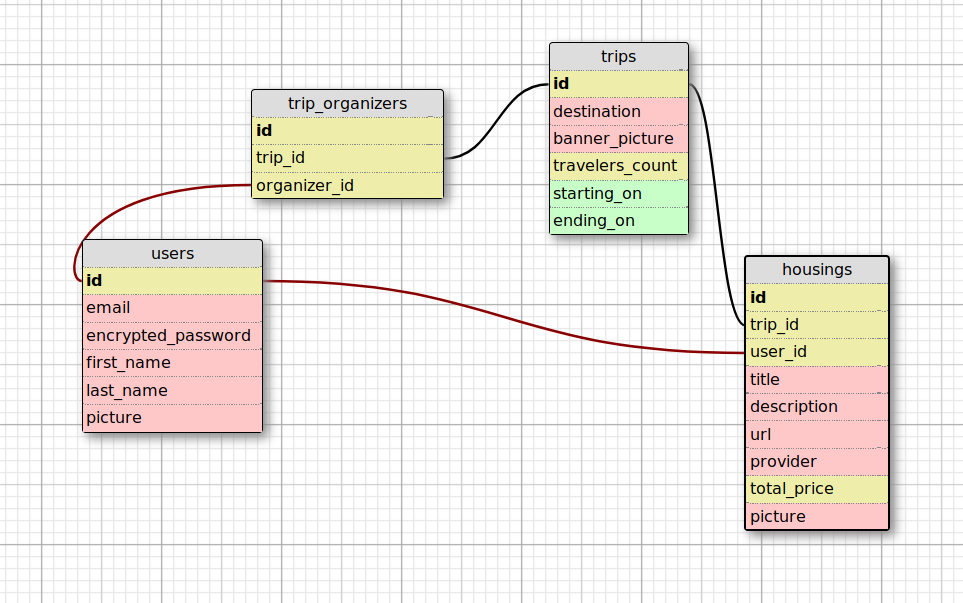
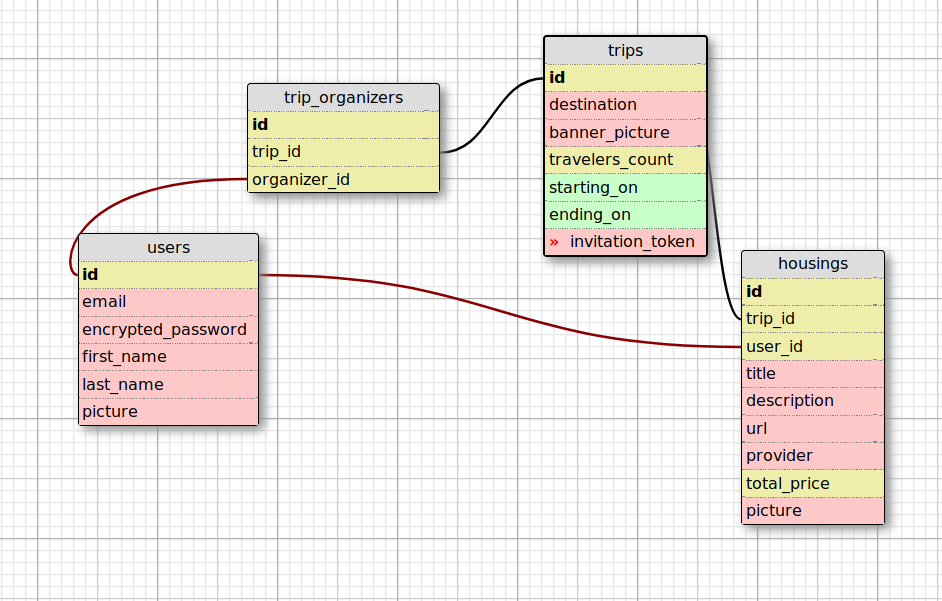
Add authorization on trip/housing pages

diff --git a/apps/web/assets/javascripts/copy-invitation-link.js b/apps/web/assets/javascripts/copy-invitation-link.js
@@ -1,0 +1,44 @@
+(function() {
+
+  'use strict';
+
+  // click event
+  var element = document.querySelector('.copy-invitation-link')
+  element.addEventListener('click', copyInvitationLink, true);
+
+  // event handler
+  function copyInvitationLink(event) {
+    event.preventDefault();
+
+    // find target element
+    var
+      target     = event.target,
+      copyTarget = target.dataset.copytarget,
+      input      = (copyTarget ? document.querySelector(copyTarget) : null);
+
+    // is element selectable?
+    if (input && input.select) {
+      // select text
+      input.select();
+
+      try {
+        // copy text
+        document.execCommand('copy');
+        input.blur();
+
+        // notice
+        var notice = document.querySelector('.trip-invitation-notice');
+
+        notice.innerText     = 'URL copied!';
+        notice.style.display = 'block';
+
+        setTimeout(function () {
+          notice.style.display = 'none';
+        }, 2000)
+      }
+      catch (err) {
+        alert('Please press Ctrl/Cmd+C to copy');
+      }
+    }
+  }
+})();

diff --git a/apps/web/assets/stylesheets/pages/_trip.scss b/apps/web/assets/stylesheets/pages/_trip.scss
@@ -84,6 +84,25 @@
   }
 }
 
+.trip-invitation {
+  text-align: center;
+  padding-top: 1em;
+
+  #trip-invitation-link {
+    text-align: center;
+
+    @media (max-width: $screen-xs-max) {
+      width: 100%;
+      padding: 0.25em;
+    }
+
+    @media (min-width: $screen-sm-min) {
+      border: none;
+      min-width: 450px;
+    }
+  }
+}
+
 .trip-show {
   .details {
     display: flex;
@@ -117,9 +136,13 @@
 }
 
 .trip-status {
-  margin: 1em 0 2em 0;
+  margin-top: 1em;
   text-align: center;
   font-size: 23px;
+
+  @media (min-width: $screen-sm-min) {
+    margin-top: 2em;
+  }
 
   .icon {
     display: block;

diff --git a/apps/web/assets/stylesheets/components/_housing-card.scss b/apps/web/assets/stylesheets/components/_housing-card.scss
@@ -5,6 +5,11 @@ $housing-card-image-width: 230px;
     display: flex;
     flex-wrap: wrap;
     justify-content: center;
+    margin-top: 2em;
+  }
+
+  @media (min-width: $screen-sm-min) {
+    margin-top: 4em;
   }
 }
 

diff --git a/apps/web/controllers/trips/housings/create.rb b/apps/web/controllers/trips/housings/create.rb
@@ -1,7 +1,12 @@
+require_relative 'authorization'
+
 module Web::Controllers::Trips
   module Housings
     class Create
       include Web::Action
+      include Web::Trips::Housings::Authorization
+
+      before :load_trip_and_authorize
 
       expose :trip
 
@@ -12,10 +17,9 @@ module Web::Controllers::Trips
       end
 
       def call(params)
-        @trip = TripRepository.new.find(params[:trip_id])
-
         if params.valid?
           housing = HousingRepository.new.create(housing_params)
+          set_user_as_organizer
 
           redirect_to routes.trip_path(@trip.id)
         else
@@ -25,6 +29,7 @@ module Web::Controllers::Trips
 
       private
 
+      # TODO: move in an interactor
       def housing_params
         params[:housing].merge(
           trip_id:  params[:trip_id],
@@ -39,6 +44,13 @@ module Web::Controllers::Trips
         match_data     = url.match(provider_regex)
 
         match_data ? match_data[:provider] : 'n/a'
+      end
+
+      def set_user_as_organizer
+        return if user_organizer?
+
+        TripOrganizerRepository.new.create(organizer_id: current_user.id, trip_id: @trip.id)
+        session[:invitation_token] = nil
       end
     end
   end

diff --git a/apps/web/controllers/trips/show.rb b/apps/web/controllers/trips/show.rb
@@ -1,15 +1,39 @@
 module Web::Controllers::Trips
   class Show
     include Web::Action
+    include Web::Users::SkipAuthentication
+
+    before :load_trip_and_authorize
 
     expose :housing_stats
     expose :housings
     expose :trip
 
     def call(params)
-      @trip          = TripRepository.new.find(params[:id])
       @housings      = HousingRepository.new.for_trip_sorted_by_most_recent(@trip.id)
       @housing_stats = HousingRepository.new.stats_for_trip(@trip.id)
+    end
+
+    private
+
+    def load_trip_and_authorize
+      @trip = TripRepository.new.find_with_organizers(params[:id])
+      halt 404 unless @trip && ((user_signed_in? && user_organizer?) || visitor_authorized?)
+    end
+
+    def user_organizer?
+      @trip.trip_organizers.any? { |organizer| organizer.organizer_id == current_user.id }
+    end
+
+    def visitor_authorized?
+      token = params[:token].to_s
+
+      if !token.empty? && token == @trip.invitation_token
+        session[:invitation_token] = params[:token]
+        return true
+      else
+        return false
+      end
     end
   end
 end

diff --git a/apps/web/views/trips/show.rb b/apps/web/views/trips/show.rb
@@ -14,6 +14,10 @@ module Web::Views::Trips
     def_delegators :housing_stats, :total_price_min
     def_delegators :housing_stats, :total_price_max
 
+    def after_js
+      javascript('copy-invitation-link', async: true)
+    end
+
     def days_before_trip
       (trip.starting_on - Date.today).to_i
     end
@@ -28,6 +32,22 @@ module Web::Views::Trips
         :housing_card_pending
       else
         :housing_card
+      end
+    end
+
+    def invitation_link
+      return unless trip_to_come?
+
+      html.div(class: 'trip-invitation') do
+        form_for :trip_invitation, '#', method: :get do
+          div do
+            text_field :link, value: routes.trip_by_token_url(trip.id, trip.invitation_token), readonly: '', id: 'trip-invitation-link'
+          end
+          div do
+            button 'Copy to invite friends', 'data-copytarget' => '#trip-invitation-link', class: 'btn btn-link copy-invitation-link'
+          end
+          span class: 'trip-invitation-notice'
+        end
       end
     end
 

diff --git a/apps/web/controllers/trips/housings/authorization.rb b/apps/web/controllers/trips/housings/authorization.rb
@@ -1,0 +1,24 @@
+module Web
+  module Trips
+    module Housings
+      module Authorization
+
+        private
+
+        def load_trip_and_authorize
+          @trip = TripRepository.new.find_with_organizers(params[:trip_id])
+          halt 401 unless @trip && (user_organizer? || user_authorized?)
+        end
+
+        def user_organizer?
+          @user_organizer ||= @trip.trip_organizers.any? { |organizer| organizer.organizer_id == current_user.id }
+        end
+
+        def user_authorized?
+          token = session[:invitation_token].to_s
+          return !token.empty? && token == @trip.invitation_token
+        end
+      end
+    end
+  end
+end

diff --git a/apps/web/controllers/trips/create.rb b/apps/web/controllers/trips/create.rb
@@ -1,3 +1,5 @@
+require 'securerandom'
+
 module Web::Controllers::Trips
   class Create
     include Web::Action
@@ -13,12 +15,21 @@ module Web::Controllers::Trips
 
     def call(params)
       if params.valid?
-        trip = TripRepository.new.create(params[:trip])
+        trip = TripRepository.new.create_with_organizer(trip_params)
 
         redirect_to routes.trip_path(trip.id)
       else
         self.status = 422
       end
+    end
+
+    private
+
+    def trip_params
+      params[:trip].merge(
+        trip_organizers: [organizer_id: current_user.id],
+        invitation_token: SecureRandom.hex[0, 8].upcase
+      )
     end
   end
 end

diff --git a/lib/housing_list/repositories/trip_repository.rb b/lib/housing_list/repositories/trip_repository.rb
@@ -4,8 +4,16 @@ class TripRepository < Hanami::Repository
     has_many :trip_organizers
   end
 
+  def create_with_organizer(data)
+    assoc(:trip_organizers).create(data)
+  end
+
   def find_with_housings(id)
     aggregate(:housings).where(id: id).as(Trip).one
+  end
+
+  def find_with_organizers(id)
+    aggregate(:trip_organizers).where(id: id).as(Trip).one
   end
 
   def count

diff --git a/apps/web/controllers/trips/housings/new.rb b/apps/web/controllers/trips/housings/new.rb
@@ -1,12 +1,16 @@
+require_relative 'authorization'
+
 module Web::Controllers::Trips
   module Housings
     class New
       include Web::Action
+      include Web::Trips::Housings::Authorization
+
+      before :load_trip_and_authorize
 
       expose :trip
 
       def call(params)
-        @trip = TripRepository.new.find(params[:trip_id])
       end
     end
   end

diff --git a/apps/web/config/routes.rb b/apps/web/config/routes.rb
@@ -9,6 +9,8 @@ namespace :users do
   post 'sign_up', to: 'users/registration#create'
 end
 
+get '/trips/:id/token/:token', to: 'trips#show', as: :trip_by_token
+
 resources :trips, only: [:show, :new, :create] do
   resources :housings, only: [:new, :create]
 end

diff --git a/db/migrations/20170924112819_add_invitation_token_to_trips.rb b/db/migrations/20170924112819_add_invitation_token_to_trips.rb
@@ -1,0 +1,5 @@
+Hanami::Model.migration do
+  change do
+    add_column :trips, :invitation_token, String, null: false
+  end
+end
